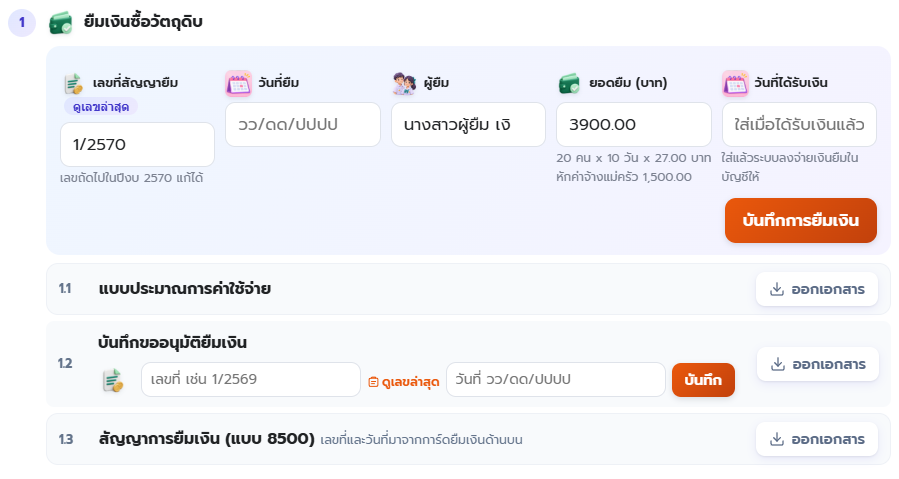
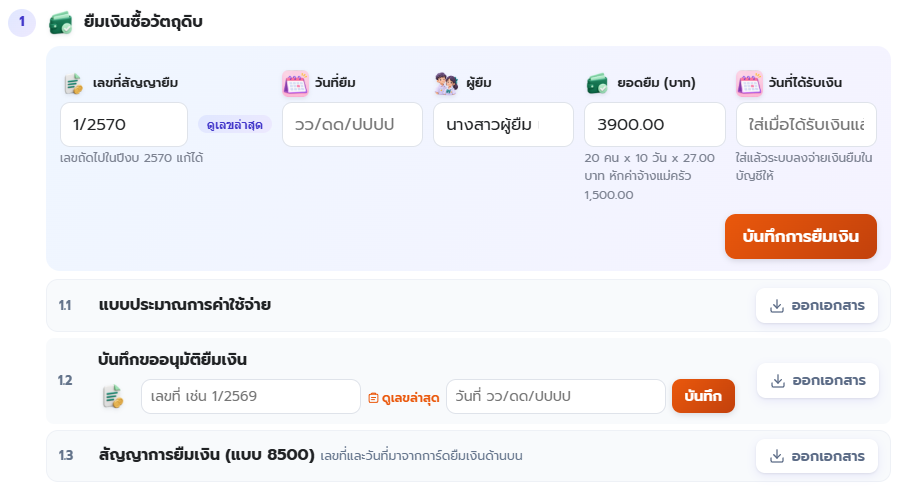
Lunch loan card: latest-number button beside contract input so fields align

diff --git a/app/templates/_lunch_buy_flow.html b/app/templates/_lunch_buy_flow.html
@@ -87,7 +87,7 @@
     <p class="muted" style="margin:0;">รอบนี้ปิดไปก่อนมีการ์ดยืมเงิน ระบบลงบัญชีไว้แบบเดิมแล้ว เอกสารด้านล่างยังออกได้ตามปกติ</p>
     {% else %}
     <form method="post" action="/lunch/round/{{ r.id }}/loan" class="bf-loan-form bf-loan-5" id="bfLoanForm{{ r.id }}">
-      <div><label>เลขที่สัญญายืม {% if loan_fy %}<button type="button" class="bf-reg-btn" onclick="showDocNos({{ loan_fy.fy }})">ดูเลขล่าสุด</button>{% endif %}</label><input name="contract_no" id="bfLoanNo{{ r.id }}" value="{{ ln.contract_no if ln else (loan_fy.next if loan_fy else '') }}" placeholder="เช่น 1/{{ p.year }}">
+      <div><label>เลขที่สัญญายืม</label><span style="display:flex;gap:6px;align-items:center"><input name="contract_no" id="bfLoanNo{{ r.id }}" value="{{ ln.contract_no if ln else (loan_fy.next if loan_fy else '') }}" placeholder="เช่น 1/{{ p.year }}" style="flex:1;min-width:0">{% if loan_fy %}<button type="button" class="bf-reg-btn" style="flex:none;white-space:nowrap" onclick="showDocNos({{ loan_fy.fy }})">ดูเลขล่าสุด</button>{% endif %}</span>
         {% if loan_fy and not ln %}<small class="muted">เลขถัดไปในปีงบ {{ loan_fy.fy }} แก้ได้</small>{% endif %}</div>
       <div><label>วันที่ยืม</label><input name="date" value="{{ be_date(ln.date) if ln and ln.date else '' }}" placeholder="วว/ดด/ปปปป" data-date="1"></div>
       <div><label>ผู้ยืม</label><input name="borrower" value="{{ (ln.borrower if ln else '') or p.lunch_officer or '' }}" placeholder="ชื่อ-นามสกุล" list="persons_dl"></div>
@@ -290,7 +290,7 @@
   .bf-loan-form label{ font-size:13px; }
   .bf-loan-form small{ display:block; font-size:12px; margin-top:2px; }
   .bf-loan-act{ grid-column:1/-1; display:flex; justify-content:flex-end; }
-  .bf-loan-5{ grid-template-columns:repeat(5,minmax(0,1fr)); }
+  .bf-loan-5{ grid-template-columns:minmax(0,1.5fr) repeat(4,minmax(0,1fr)); }
   @media(max-width:900px){ .bf-loan-5{ grid-template-columns:repeat(2,minmax(0,1fr)); } }
   .bf-loan-status{ display:flex; flex-wrap:wrap; gap:8px; align-items:center; margin-top:10px; font-size:13.5px; }
   .bf-reg-btn{ border:none; background:linear-gradient(135deg,#e0e7ff,#ede9fe); color:#4338ca; font-size:11.5px; font-weight:700; padding:2px 9px; border-radius:99px; cursor:pointer; margin-left:4px; }
